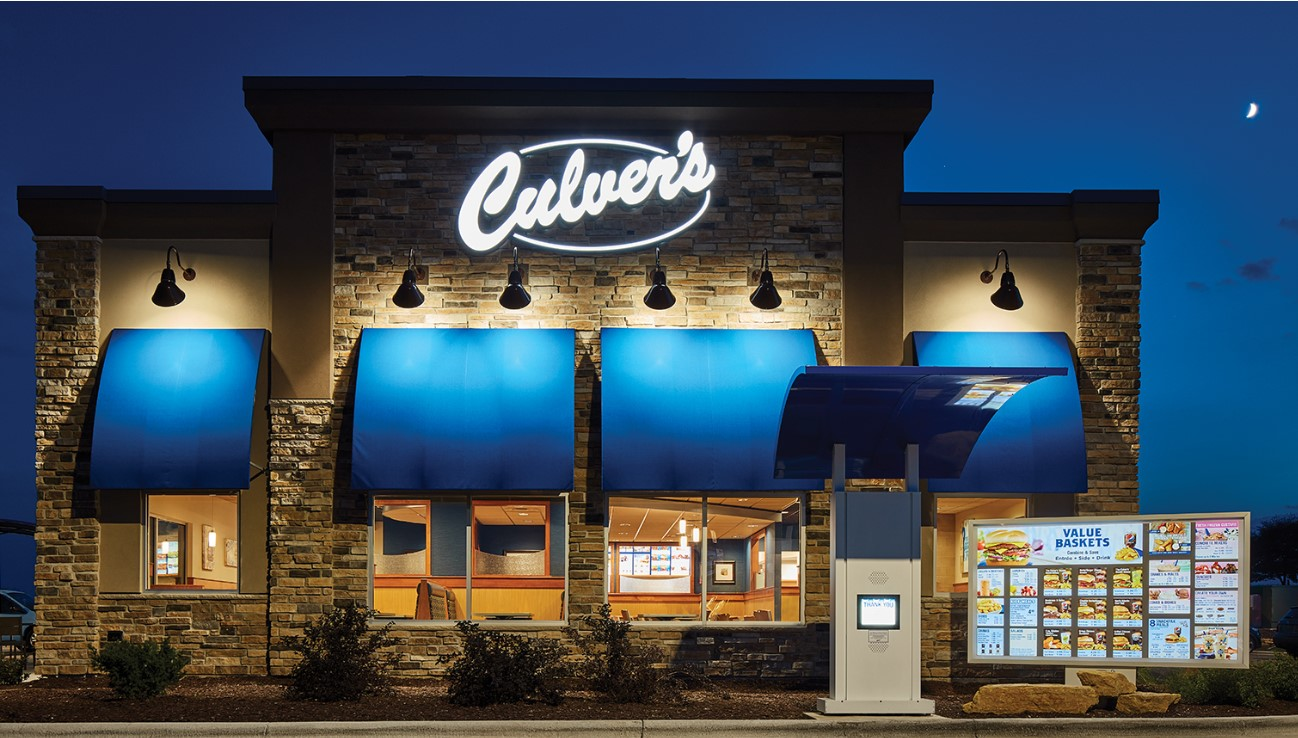
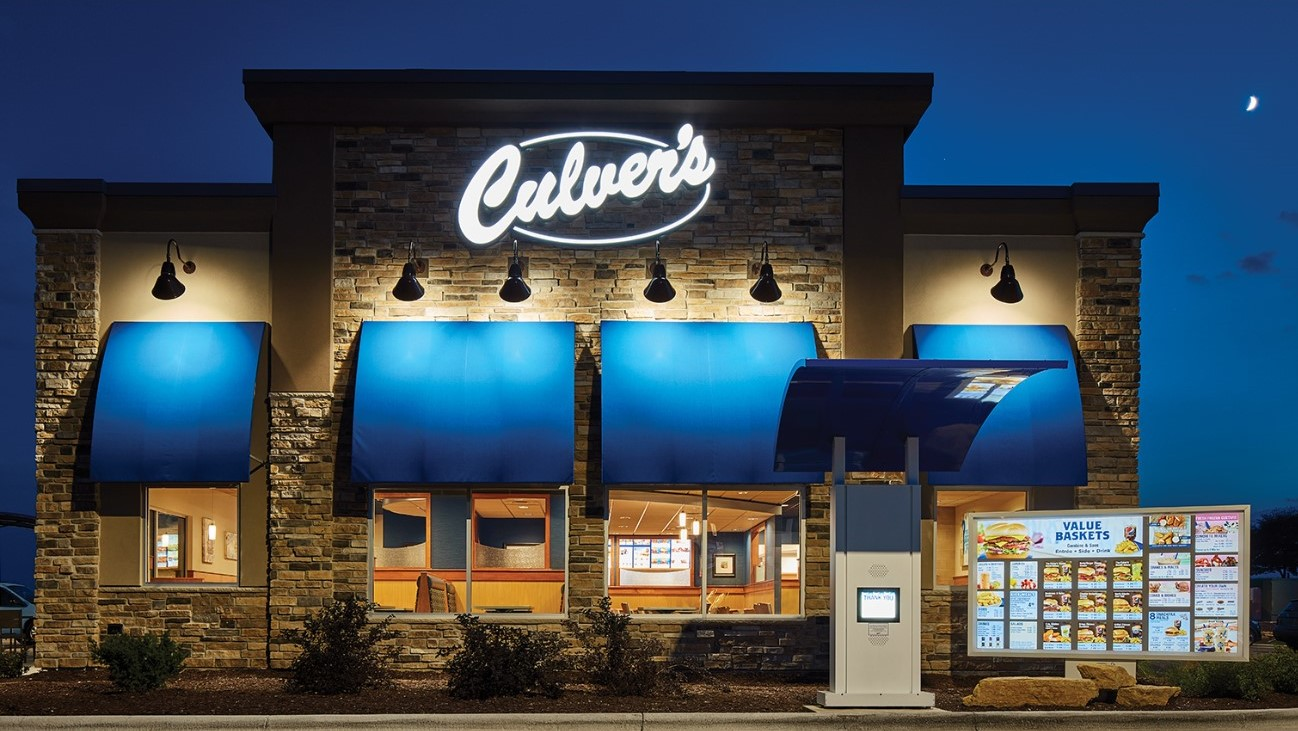
should be good now

diff --git a/app/page.js b/app/page.js
@@ -7,16 +7,14 @@ export default function Home() {
   return (
     <div>
       <div className='py-16 bg-custom-color'>
-        <div>
-          <Image
-            src="/kingmanSign2.jpg"
-            alt="Installation"
-            layout="responsive"
-            width={1920}
-            height={1080}
-            className="w-full h-[calc(100vh-64px)]"
-          />
-        </div>
+        <Image
+          src="/kingmanSign2Copy.jpg"
+          alt="Installation"
+          layout="responsive"
+          width={1920}
+          height={1080}
+          className="w-full h-[calc(100vh-64px)]"
+        />
         <div className="w-full pt-16">
           <div>
             <h1 className="relative text-header-yellow font-bold text-5xl pb-6 pl-6 pr-6 sm:pl-6 md:pl-12 lg:pl-24 before:absolute before:content ' ' before:w-3 before:h-14 before:bg-before-yellow before:left-0 before:top-1/6">

diff --git a/app/Signs/SignImage.js b/app/Signs/SignImage.js
@@ -3,16 +3,14 @@ import Image from "next/image";
 
 const SignImage = () => {
   return (
-    <div>
-      <Image
-        src="/billboard.jpg"
-        alt="Installation"
-        layout="responsive"
-        width={1920}
-        height={1080}
-        className="w-full h-[calc(100vh-64px)]"
-      />
-    </div>
+    <Image
+      src="/culvers.jpg"
+      alt="Installation"
+      layout="responsive"
+      width={1298}
+      height={731}
+      className="max-w-full"
+    />
   );
   
 };

diff --git a/app/Installation/InstallationInfo.js b/app/Installation/InstallationInfo.js
@@ -9,8 +9,8 @@ const InstallationInfo = () => {
         alt="Installation"
         layout="responsive"
         objectFit="contain"
-        width={1366}
-        height={877}
+        width={1298}
+        height={738}
         className="max-w-full"
       />
       <div className="pt-16">

diff --git a/app/Signs/page.js b/app/Signs/page.js
@@ -5,7 +5,7 @@ import SignInfo from './SignInfo';
 import SignImage from './SignImage';
 export default function Signs() {
   return (
-    <div className="pt-16 bg-custom-color">
+    <div className="pt-15 bg-custom-color">
       {/* <SignSlider/> */}
       <SignImage/>
       <SignInfo/>
